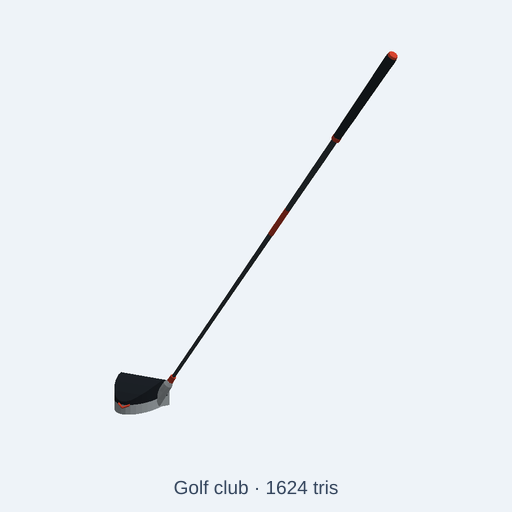
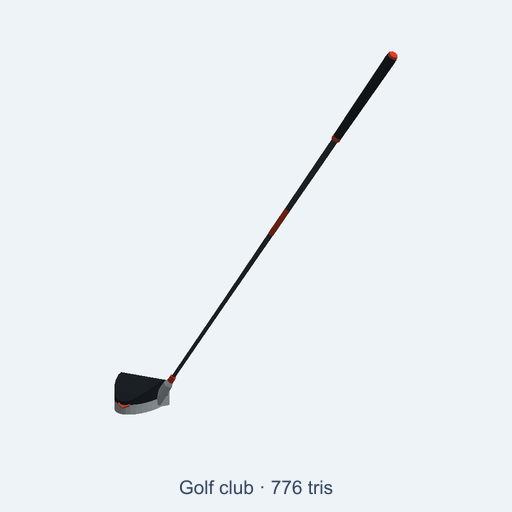
fix(catalog): keep the golf club and whip antenna inside their triangle budgets
The catalogue sync exports each kit as a low-poly GLB capped at
meta.triangleBudget. On the app's geometry kernel the golf club meshed to
3346 triangles (budget 2000) and the omnidirectional whip antenna to 2506
(budget 2400), so the sync refused to package the catalogue.

Both overruns came from smooth revolves on long tapers. Those parts are now
ruled eight-sided sections. They stay recognisable and mesh to the same
counts on both kernels: golf club 776 and whip antenna 1308. The declared
budgets stay 2000 and 2400.

A default-shard test exports these two kits through the catalogue build and
fails when either count exceeds its budget.

Changed region(s): [[0.3438, 0.9375, 0.6562, 0.9688]]

diff --git a/catalog/kits/telecom-infrastructure/omnidirectional-whip-antenna.kcad.ts b/catalog/kits/telecom-infrastructure/omnidirectional-whip-antenna.kcad.ts
@@ -65,10 +65,50 @@ const rod = (p0, p1, r, n = 6) => {
   const d = [p1[0] - p0[0], p1[1] - p0[1], p1[2] - p0[2]];
   return orient(extrudePolygon(circle(r, n), Math.hypot(d[0], d[1], d[2])), d, p0);
 };
+// Eight-sided ruled sections. The long radome taper is a cone, and a coarser
+// mesher splits that cone into far more triangles than this budget allows.
+const FACETS = 8;
+const ring = (r) => {
+  const radius = Math.max(r, 0.05);
+  let pb = path().moveTo(radius, 0);
+  for (let k = 1; k < FACETS; k++) {
+    const a = (2 * Math.PI * k) / FACETS;
+    pb = pb.lineTo(radius * Math.cos(a), radius * Math.sin(a));
+  }
+  return pb.close();
+};
+const frustum = (r0, z0, r1, z1) => ring(r0).loft(ring(Math.max(r1, 0.05)), {
+  planes: [
+    { plane: 'XY', origin: [0, 0, z0] },
+    { plane: 'XY', origin: [0, 0, z1] },
+  ],
+  ruled: true,
+});
 const turned = (pts) => {
-  let pb = path().moveTo(pts[0][0], pts[0][1]);
-  for (const [r, z] of pts.slice(1)) pb = pb.lineTo(r, z);
-  return pb.close().revolve();
+  const radii = pts.map((p) => p[0]);
+  const minR = Math.min(...radii);
+  if (minR > 0.2) {
+    const zs = pts.map((p) => p[1]);
+    const z0 = Math.min(...zs);
+    const z1 = Math.max(...zs);
+    return frustum(Math.max(...radii), z0, Math.max(...radii), z1)
+      .subtract(frustum(minR, z0 - 0.3, minR, z1 + 0.3));
+  }
+  const positive = pts.filter((p) => p[0] > 0.05);
+  const end = pts[pts.length - 1];
+  if (end[0] <= 0.05 && end[1] > positive[positive.length - 1][1] + 0.2) positive.push([0.4, end[1]]);
+  const spans = [];
+  for (let i = 0; i < positive.length - 1; i++) {
+    const [r0, z0] = positive[i];
+    const [r1, z1] = positive[i + 1];
+    if (z1 - z0 > 0.05) spans.push([r0, z0, r1, z1]);
+  }
+  let solid = null;
+  for (const [r0, z0, r1, z1] of spans) {
+    const piece = frustum(r0, solid === null ? z0 : z0 - 0.2, r1, z1);
+    solid = solid === null ? piece : solid.union(piece);
+  }
+  return solid;
 };
 
 const AX = 260; // antenna axis offset from the mast

diff --git a/catalog/kits/sports/golf-club.kcad.ts b/catalog/kits/sports/golf-club.kcad.ts
@@ -36,10 +36,42 @@ const p = assembly('golf-club');
 const TURN = 120;
 const add = (name, shape) => p.part(name, shape.rotateZ(TURN).scale(scale));
 
+// Eight-sided ruled sections. A smooth revolve of the long shaft is meshed
+// into thousands of triangles by coarser kernels; an octagonal frustum stays
+// a handful of faces and still reads as a round low-poly shaft.
+const FACETS = 8;
+const ring = (r) => {
+  const radius = Math.max(r, 0.05);
+  let pb = path().moveTo(radius, 0);
+  for (let k = 1; k < FACETS; k++) {
+    const a = (2 * Math.PI * k) / FACETS;
+    pb = pb.lineTo(radius * Math.cos(a), radius * Math.sin(a));
+  }
+  return pb.close();
+};
+const frustum = (r0, z0, r1, z1) => ring(r0).loft(ring(Math.max(r1, 0.05)), {
+  planes: [
+    { plane: 'XY', origin: [0, 0, z0] },
+    { plane: 'XY', origin: [0, 0, z1] },
+  ],
+  ruled: true,
+});
 const turned = (pts) => {
-  let pb = path().moveTo(pts[0][0], pts[0][1]);
-  for (const [r, z] of pts.slice(1)) pb = pb.lineTo(r, z);
-  return pb.close().revolve();
+  const positive = pts.filter((p) => p[0] > 0.05);
+  const end = pts[pts.length - 1];
+  if (end[0] <= 0.05 && end[1] > positive[positive.length - 1][1] + 0.2) positive.push([0.4, end[1]]);
+  const spans = [];
+  for (let i = 0; i < positive.length - 1; i++) {
+    const [r0, z0] = positive[i];
+    const [r1, z1] = positive[i + 1];
+    if (z1 - z0 > 0.05) spans.push([r0, z0, r1, z1]);
+  }
+  let solid = null;
+  for (const [r0, z0, r1, z1] of spans) {
+    const piece = frustum(r0, solid === null ? z0 : z0 - 0.2, r1, z1);
+    solid = solid === null ? piece : solid.union(piece);
+  }
+  return solid;
 };
 // Profile [[y, z], ...] in the front-to-back plane, extruded across X.
 const sideYZ = (pts, t, x0) => extrudePolygon(pts, t).rotateX(90).rotateZ(90).translate(x0 - t / 2, 0, 0);

diff --git a/tests/integration/catalog/lowPolyTriangleBudget.test.ts b/tests/integration/catalog/lowPolyTriangleBudget.test.ts
@@ -1,0 +1,34 @@
+// SPDX-License-Identifier: MIT
+// Copyright (c) 2026 Andrii Shylenko and kernelCAD contributors
+//
+// Fast gate for the catalogue kits whose low-poly GLB exceeded the triangle
+// budget declared in meta() during catalogue sync. The full-catalog rebuild
+// checks every kit, but it is excluded from the default shard. This file
+// exports only the kits that failed that sync, the same way the catalogue
+// build does.
+
+import { resolve } from 'node:path';
+import { beforeAll, describe, expect, it } from 'vitest';
+import { buildCatalogAssetWithGlb } from '../../../src/agent/catalog/buildCatalog';
+import { initOcct } from '../../../src/kernel/backends/occt/occtBackend';
+
+const repoRoot = resolve(import.meta.dirname, '../../..');
+
+const sources = [
+  'catalog/kits/sports/golf-club.kcad.ts',
+  'catalog/kits/telecom-infrastructure/omnidirectional-whip-antenna.kcad.ts',
+];
+
+beforeAll(async () => {
+  await initOcct();
+}, 30_000);
+
+describe('catalogue low-poly triangle budgets', () => {
+  it('exports the listed kits inside their declared triangle budgets', async () => {
+    for (const source of sources) {
+      const { asset } = await buildCatalogAssetWithGlb(repoRoot, source);
+      expect(asset.stats.triangles, `${source} has no triangles`).toBeGreaterThan(0);
+      expect(asset.stats.triangles, source).toBeLessThanOrEqual(asset.triangleBudget);
+    }
+  });
+});
